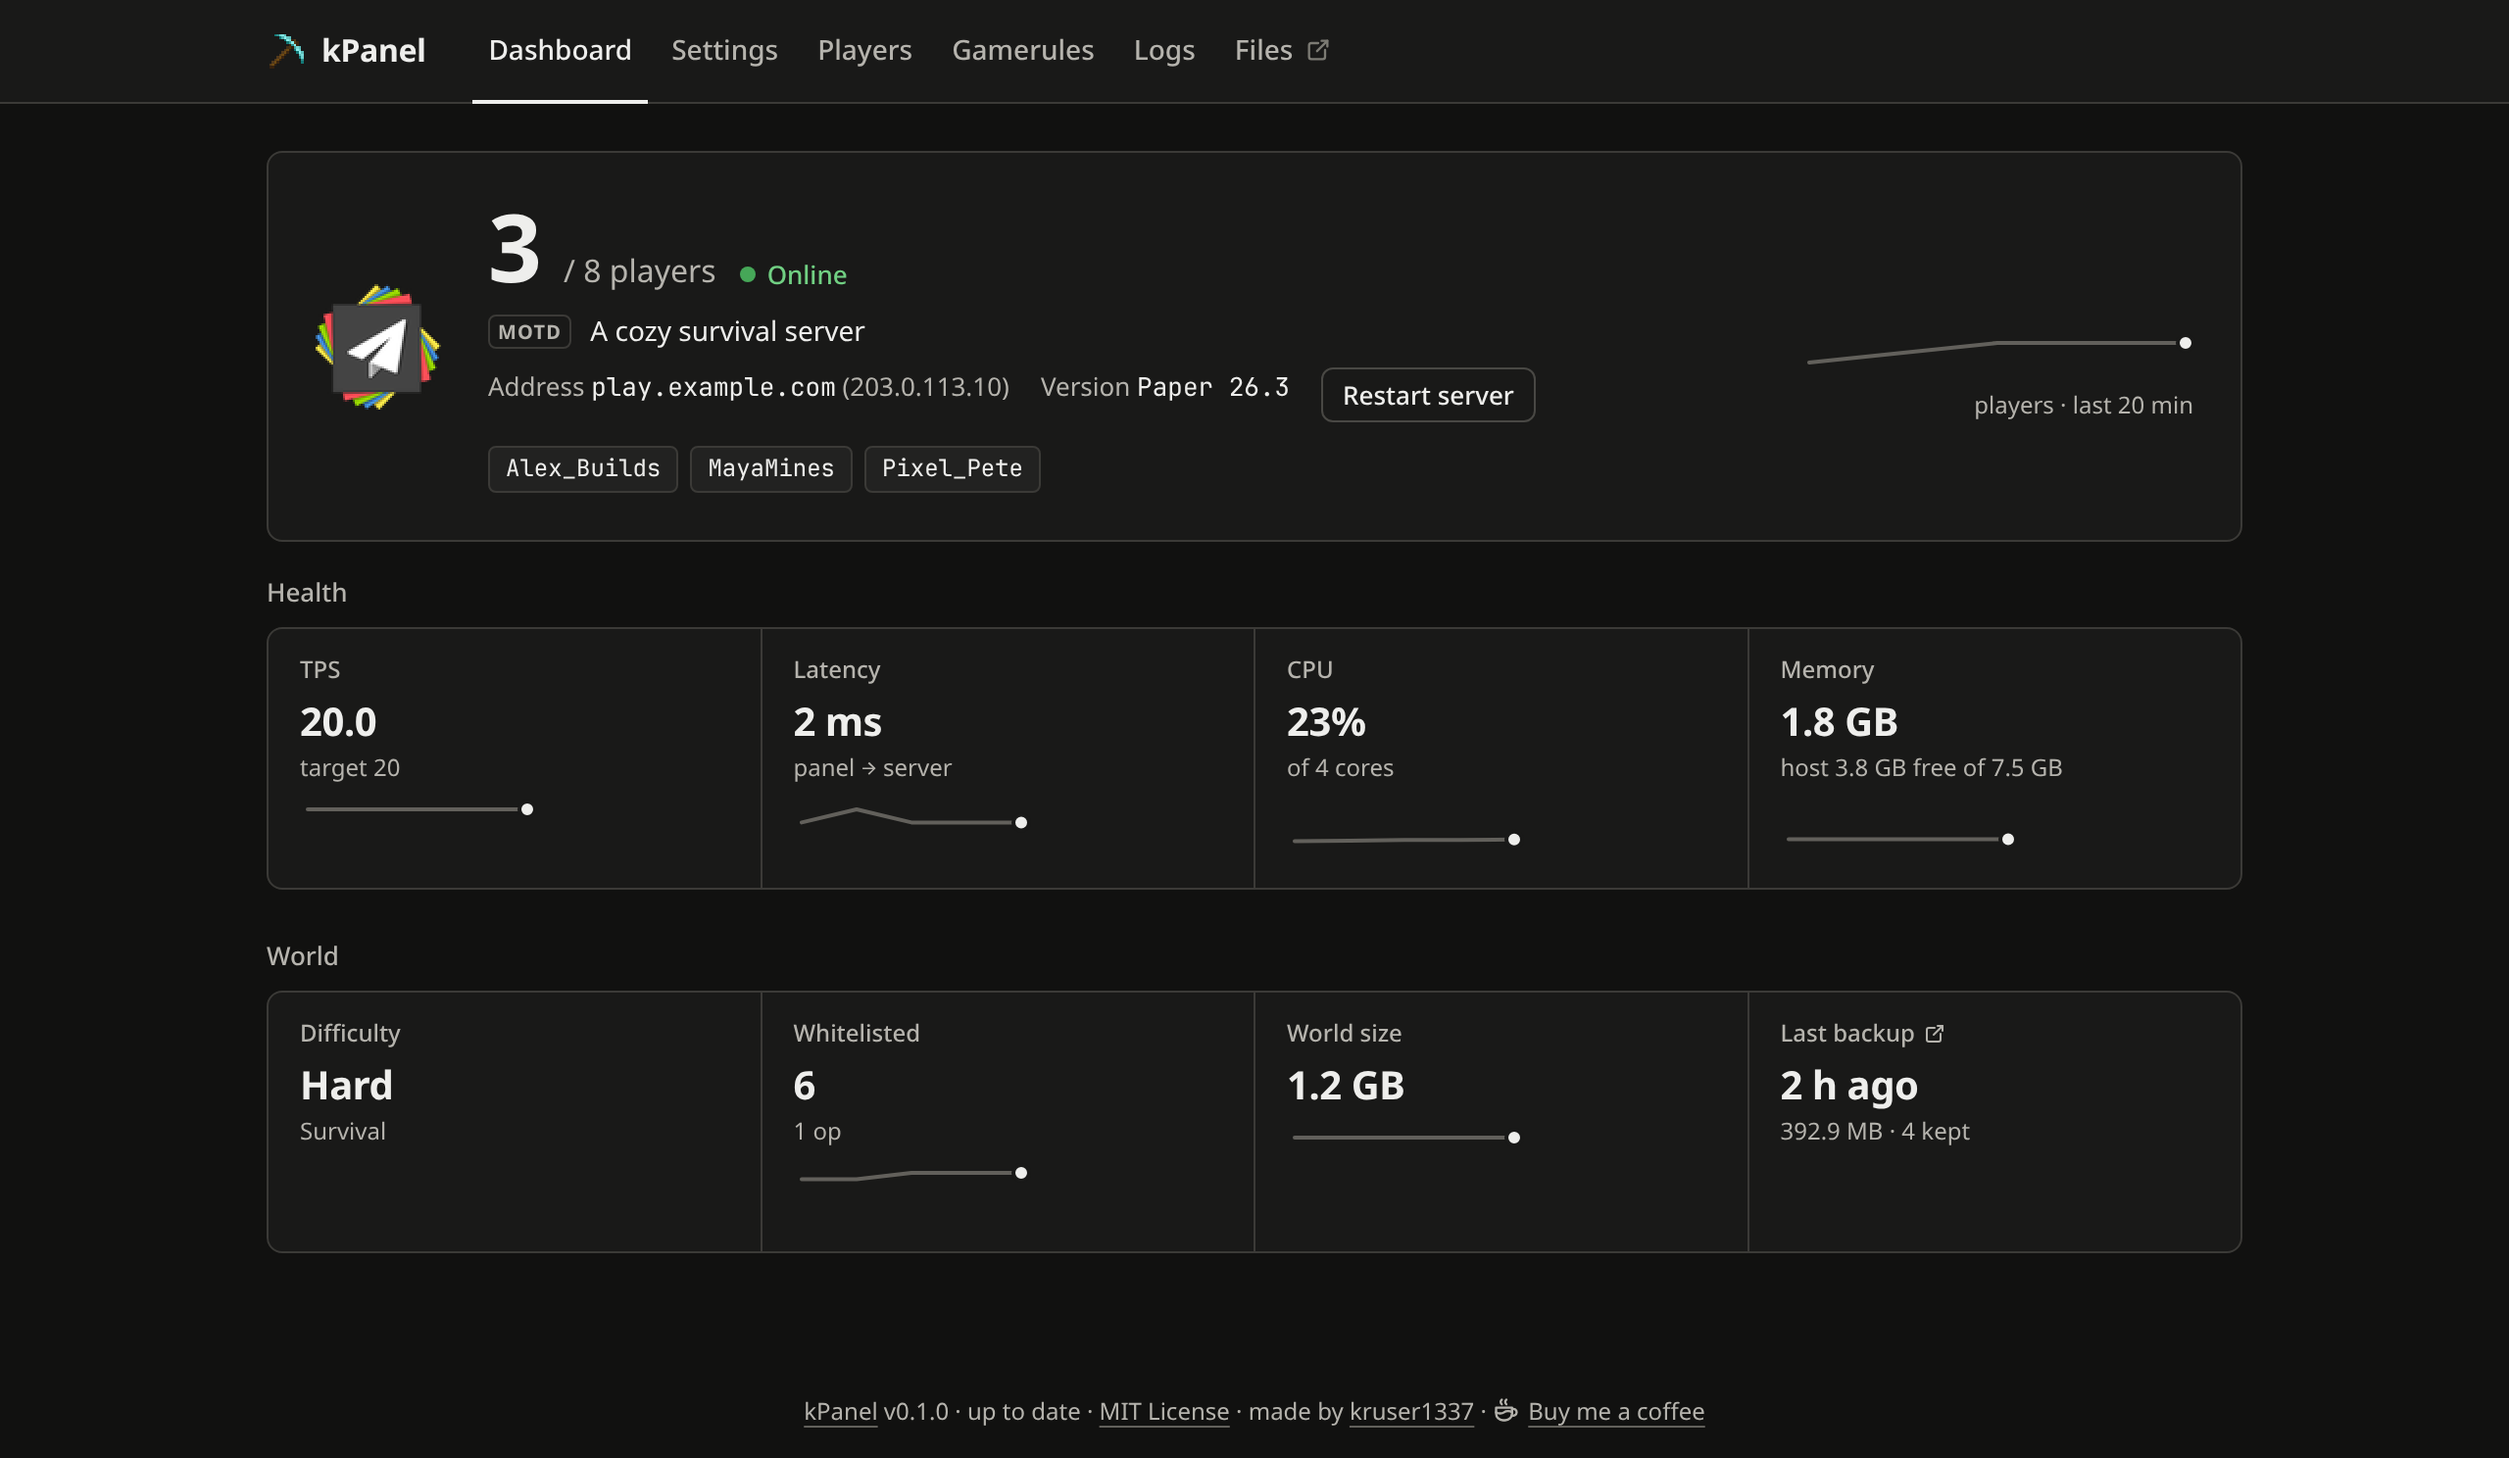
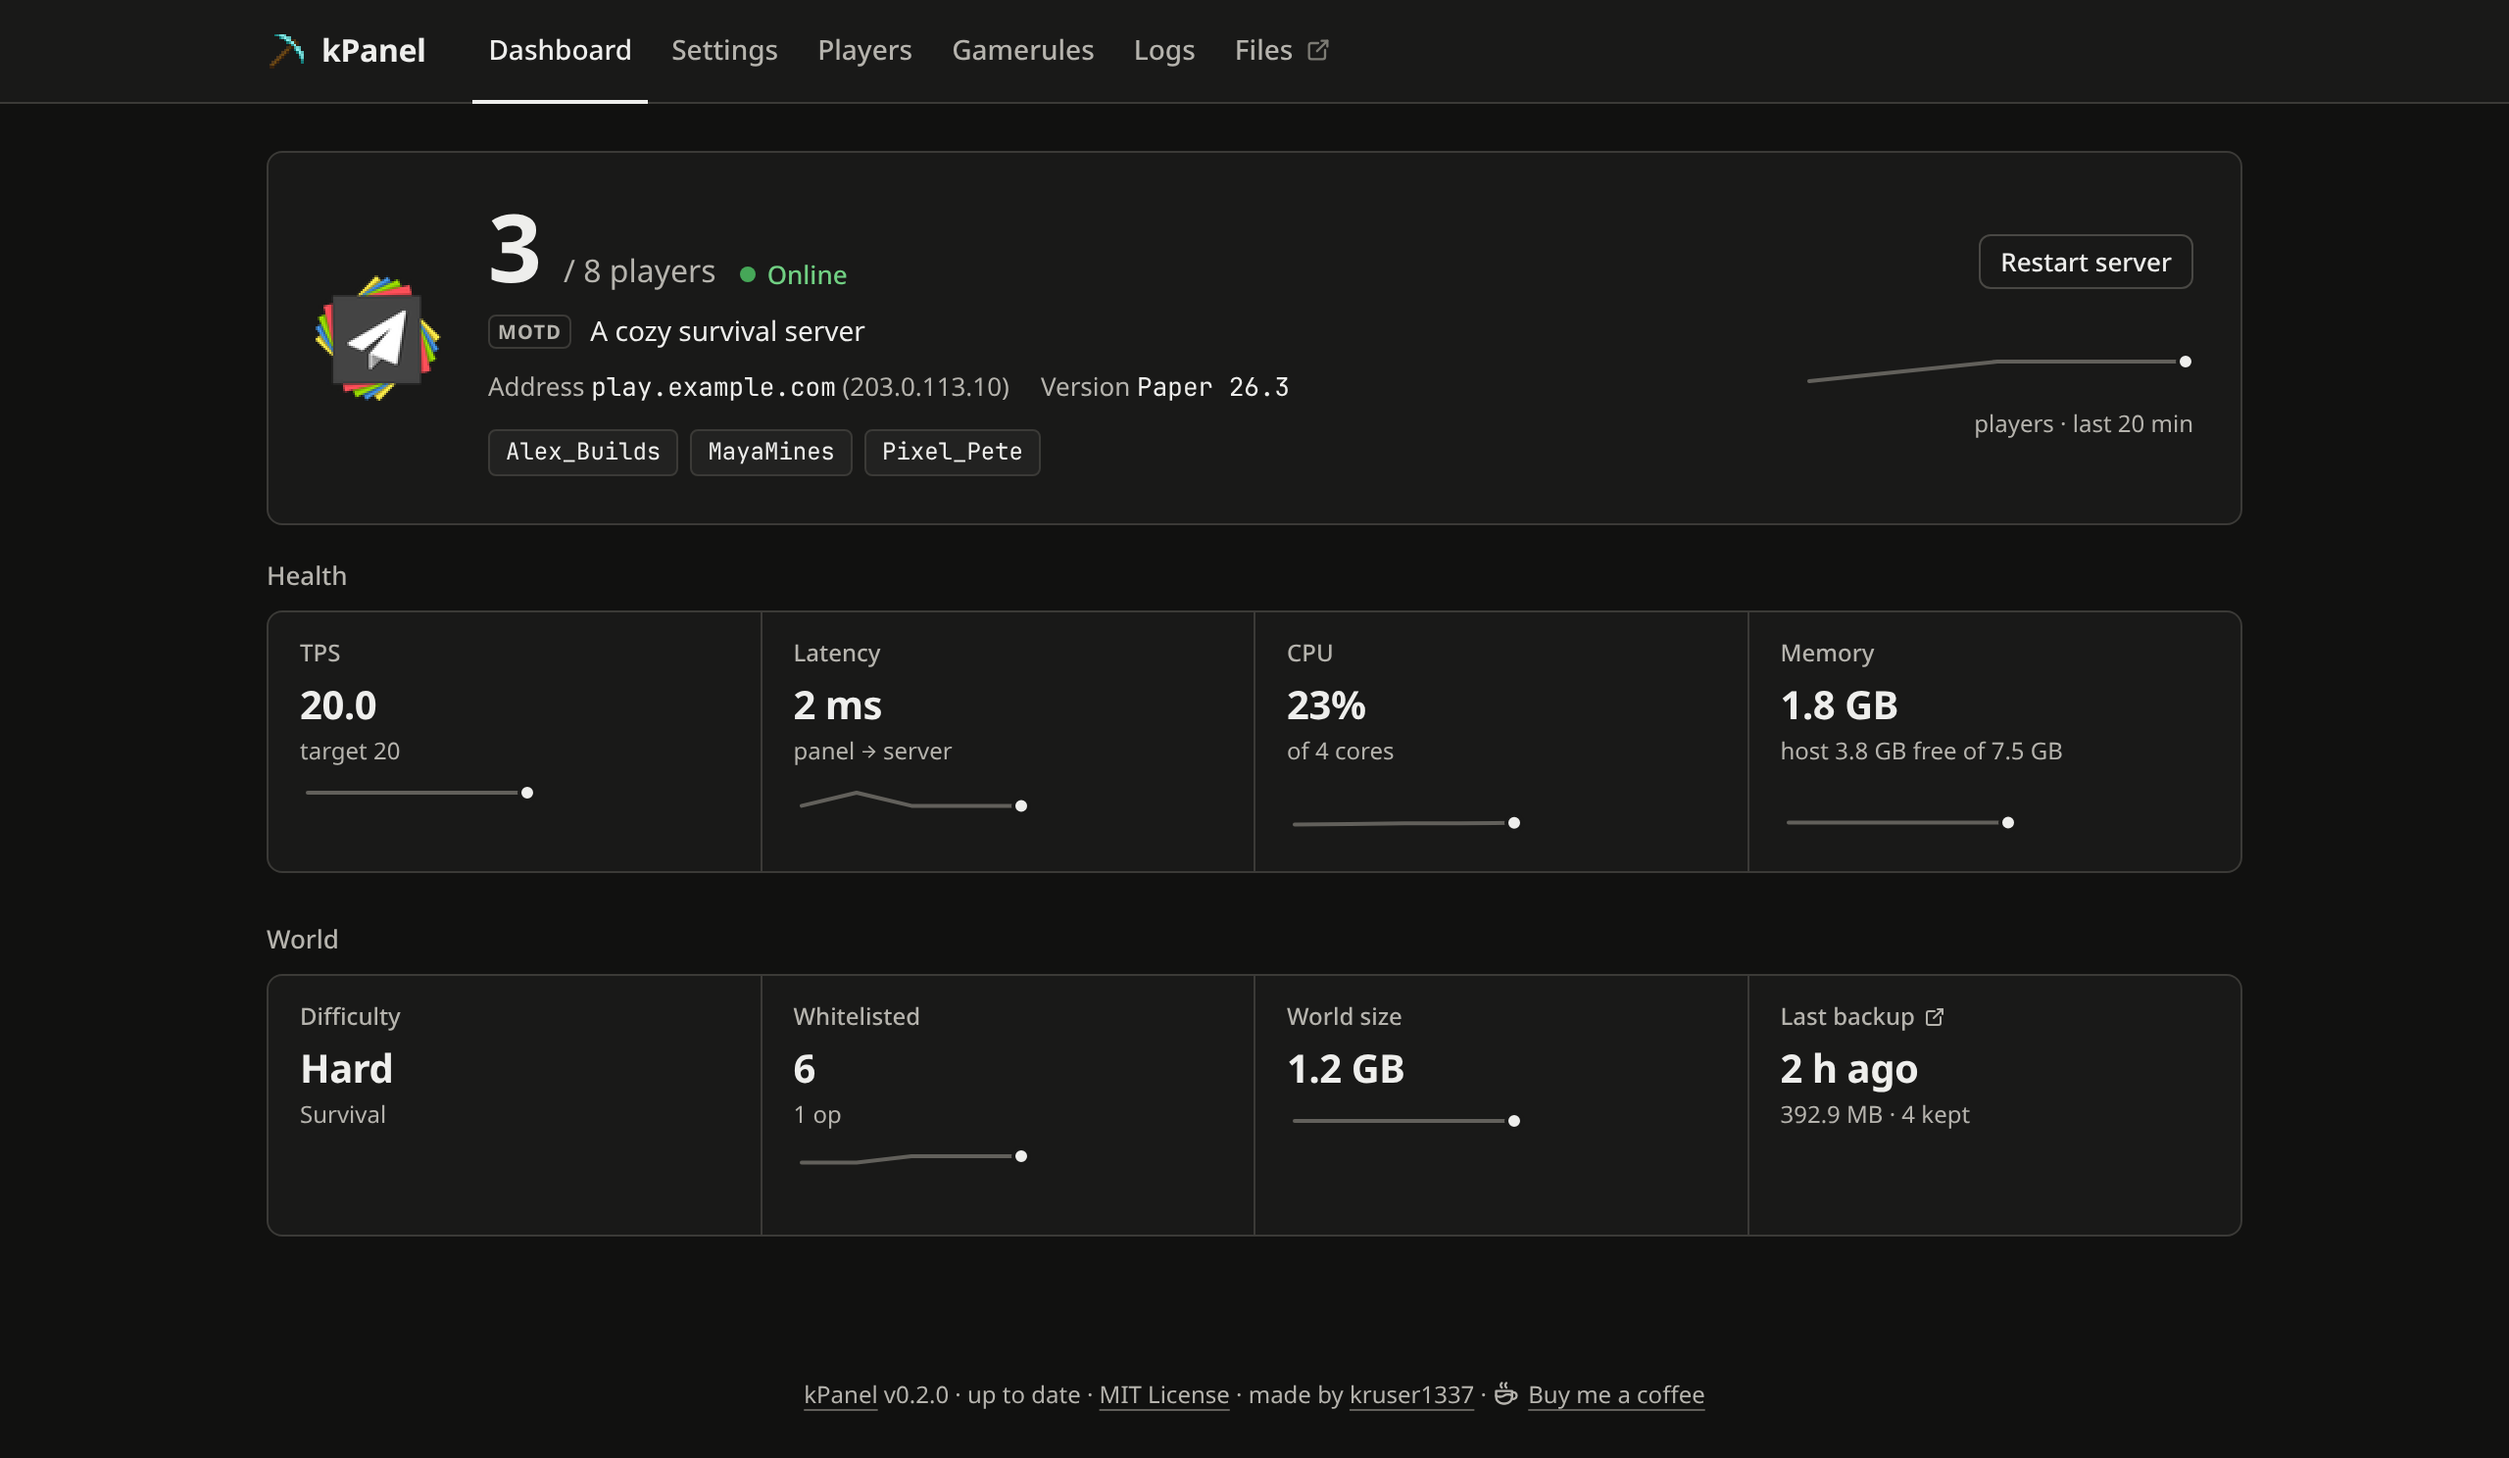
Move the Restart button to the dashboard card's top-right
It sat at the end of the address and version line, where it read like
metadata that wrapped. It now sits above the players graph, the usual
place for a card's action, and only while the server is online: offline,
RCON is unreachable and the button could only fail.

The dashboard screenshot is re-rendered to match.

diff --git a/kpanel/app.py b/kpanel/app.py
@@ -558,7 +558,7 @@ def dashboard_page(s, err=""):
     addr = f'{CFG["public_host"]}' + ("" if CFG["public_port"] == 25565 else f':{CFG["public_port"]}')
     ip = f' <span>({e(s["ip"])})</span>' if s["ip"] else ""
     meta = (f'<div class=meta><span title="Address players connect to">Address <code>{e(addr)}</code>{ip}</span>'
-            f'<span>Version <code>{e(p["version"]) if p else "—"}</code></span>{restart_form()}</div>')
+            f'<span>Version <code>{e(p["version"]) if p else "—"}</code></span></div>')
     if p:
         status = '<span class="status up" title="answers the server-list ping">Online</span>'
         motd = f'<div class=motd><span class=tag>MOTD</span> {e(p["motd"])}</div>' if p["motd"] else ""
@@ -569,7 +569,7 @@ def dashboard_page(s, err=""):
                + "</div>") if s["players"] else ""
         out.append(f'<section class="card herocard">{img}<div class=herotext><div class=hero><span class=num>{p["online"]}</span>'
                    f'<span class=of>/ {p["max"]} players</span>{status}</div>{motd}{meta}{who}</div>'
-                   f'<div class=herospark>{pgraph}</div></section>')
+                   f'<div class=herospark>{restart_form()}{pgraph}</div></section>')
     else:
         out.append(f'<section class="card herocard">{img}<div class=herotext><div class=hero><span class="status down" '
                    f'title="{e(s.get("ping_error", ""))}">Offline</span></div>{meta}</div></section>')
